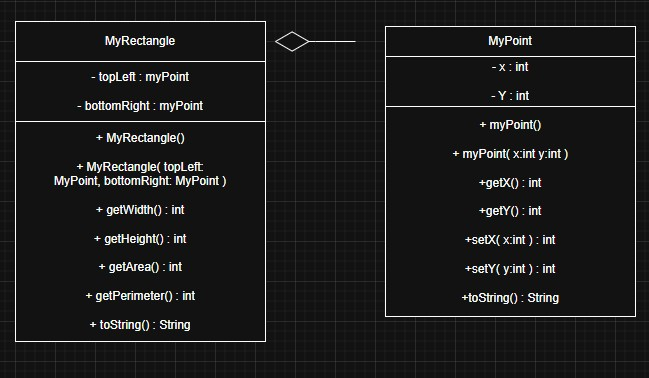
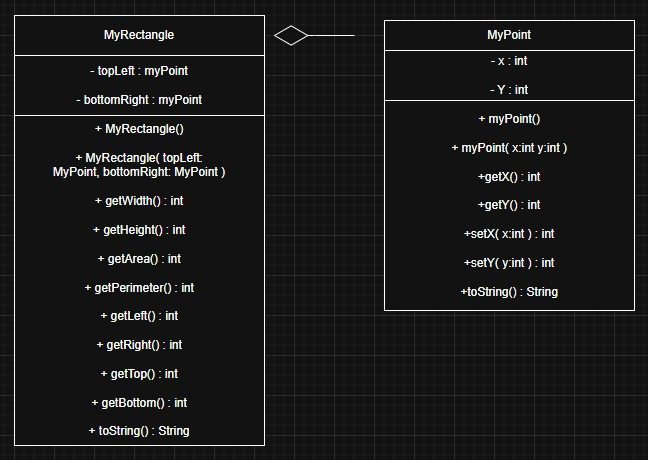
Added Problem 4 Solution

diff --git a/Problem4/campusMap.java b/Problem4/campusMap.java
@@ -1,0 +1,144 @@
+package Problem4;
+
+import Problem2.myLine;
+import Problem3.myRectangle;
+
+@SuppressWarnings("unused")
+public class campusMap {
+
+    private myRectangle scienceHall;
+    private myRectangle library;
+    private myRectangle lectureRoom1;
+    private myRectangle lectureRoom2;
+    private myRectangle lectureRoom3;
+    private myRectangle lectureRoom4;
+    private myRectangle lectureRoom5;
+
+    private myCircle centralFountain;
+
+    private myLine walkway1;
+    private myLine walkway2;
+    private myLine walkway3;
+    private myLine walkway4;
+    private myLine walkway5;
+    private myLine walkway6;
+
+    public campusMap() {
+        
+    }
+
+    // Add
+    public void addScienceHall(myRectangle scienceHall) {
+        this.scienceHall = scienceHall;
+    }
+
+    public void addLibrary(myRectangle library) {
+        this.library = library;
+    }
+
+    public void addLectureRoom1(myRectangle lectureRoom1) {
+        this.lectureRoom1 = lectureRoom1;
+    }
+
+    public void addLectureRoom2(myRectangle lectureRoom2) {
+        this.lectureRoom2 = lectureRoom2;
+    }
+
+    public void addLectureRoom3(myRectangle lectureRoom3) {
+        this.lectureRoom3 = lectureRoom3;
+    }
+
+    public void addLectureRoom4(myRectangle lectureRoom4) {
+        this.lectureRoom4 = lectureRoom4;
+    }
+
+    public void addLectureRoom5(myRectangle lectureRoom5) {
+        this.lectureRoom5 = lectureRoom5;
+    }
+
+    public void addCentralFountain(myCircle centralFountain) {
+        this.centralFountain = centralFountain;
+    }
+
+    public void addWalkway1(myLine walkway1) {
+        this.walkway1 = walkway1;
+    }
+
+    public void addWalkway2(myLine walkway2) {
+        this.walkway2 = walkway2;
+    }
+
+    public void addWalkway3(myLine walkway3) {
+        this.walkway3 = walkway3;
+    }
+
+    public void addWalkway4(myLine walkway4) {
+        this.walkway4 = walkway4;
+    }
+
+    public void addWalkway5(myLine walkway5) {
+        this.walkway5 = walkway5;
+    }
+
+    public void addWalkway6(myLine walkway6) {
+        this.walkway6 = walkway6;
+    }
+
+
+    // Calculate
+
+    public double calculateTotalWalkwayLength() {
+        double totalLength = 0;
+        if (walkway1 != null) totalLength += walkway1.getLength();
+        if (walkway2 != null) totalLength += walkway2.getLength();
+        if (walkway3 != null) totalLength += walkway3.getLength();
+        if (walkway4 != null) totalLength += walkway4.getLength();
+        if (walkway5 != null) totalLength += walkway5.getLength();
+        if (walkway6 != null) totalLength += walkway6.getLength();
+        return totalLength;
+    }
+
+    public double calculateTotalFountainArea() {
+        if (centralFountain != null) {
+            return centralFountain.getArea();
+        }
+        return 0;
+    }
+
+
+    //this took me a long time i couldnt figure it out for a long while but i think i got it now. it checks if any of the walkways connect the two rectangles by checking if the endpoints of the walkway are in the rectangles.
+    public boolean isWalkwayFromTo (myRectangle from, myRectangle to) {
+        return connects(walkway1, from, to)
+            || connects(walkway2, from, to)
+            || connects(walkway3, from, to)
+            || connects(walkway4, from, to)
+            || connects(walkway5, from, to)
+            || connects(walkway6, from, to);
+    }
+
+    private boolean connects(myLine line, myRectangle from, myRectangle to) {
+        if (line == null || from == null || to == null) {
+            return false;
+        }
+
+        int beginX = line.getBegin().getX();
+        int beginY = line.getBegin().getY();
+        int endX = line.getEnd().getX();
+        int endY = line.getEnd().getY();
+
+        boolean beginInFrom = isPointInRectangle(beginX, beginY, from);
+        boolean endInTo = isPointInRectangle(endX, endY, to);
+        if (beginInFrom && endInTo) {
+            return true;
+        }
+
+        boolean beginInTo = isPointInRectangle(beginX, beginY, to);
+        boolean endInFrom = isPointInRectangle(endX, endY, from);
+        return beginInTo && endInFrom;
+    }
+
+    private boolean isPointInRectangle(int x, int y, myRectangle rect) {
+        return x >= rect.getLeft() && x <= rect.getRight()
+            && y >= rect.getBottom() && y <= rect.getTop();
+    }
+}

diff --git a/Problem4/myCircle.java b/Problem4/myCircle.java
@@ -1,0 +1,81 @@
+package Problem4;
+
+public class myCircle {
+    private myPoint center;
+    private int radius = 1;
+
+    public myCircle() {
+        this.radius = 1;
+        this.center = new myPoint();
+    }
+
+    public myCircle(int x, int y, int radius) {
+        this.radius = radius;
+        this.center = new myPoint(x,y);
+    }
+
+    public myCircle(myPoint center, int radius) {
+        this.center = center;
+        this.radius = radius;
+    }
+
+    public void setRadius(int r) {
+        this.radius = r;
+    }
+
+    public int getRadius() {
+        return radius;
+    }
+
+    public void setCenter(myPoint center) {
+        this.center = center;
+    }
+
+    public myPoint getCenter() {
+        return center;
+    }
+
+    public int getCenterX() {
+        return this.center.getX();
+    }
+
+    public void setCenterX(int x) {
+        this.center.setX(x);
+    }
+
+    public int getCenterY() {
+        return this.center.getY();
+    }
+
+    public void setCenterY(int y) {
+        this.center.setY(y);
+
+    }
+
+    public int[] getCenterXY() {
+        int a[] = new int[2];
+        a[0] = this.center.getX();
+        a[1] = this.center.getY();
+        return a;
+    }
+
+    public void setCenterXY(int x, int y) {
+        this.center.setXY(x, y);
+    }
+
+    public String toString() {
+        return ("Center = " + this.center + " and radius = " + this.radius);
+    }
+
+    public double getCircumference() {
+        return (2 * Math.PI * this.radius);
+    }
+    public double distance(myCircle c) {
+        return(this.center.distance(c.center));
+    }
+
+    public double getArea() {
+        return (Math.PI * this.radius * this.radius);
+    }
+  
+}

diff --git a/Problem4/testCampusMap.java b/Problem4/testCampusMap.java
@@ -1,0 +1,32 @@
+package Problem4;
+
+import Problem2.myLine;
+import Problem2.myPoint;
+import Problem3.myRectangle;
+
+public class testCampusMap {
+	public static void main(String[] args) {
+		campusMap map = new campusMap();
+
+		myRectangle scienceHall = new myRectangle(new Problem3.myPoint(0, 10), new Problem3.myPoint(4, 6));
+		myRectangle library = new myRectangle(new Problem3.myPoint(6, 10), new Problem3.myPoint(10, 6));
+		myRectangle lectureRoom1 = new myRectangle(new Problem3.myPoint(20, 20), new Problem3.myPoint(24, 16));
+
+		map.addScienceHall(scienceHall);
+		map.addLibrary(library);
+		map.addLectureRoom1(lectureRoom1);
+		map.addCentralFountain(new myCircle(5, 5, 2));
+
+		myLine walkway1 = new myLine(new myPoint(2, 8), new myPoint(8, 8));
+		myLine walkway2 = new myLine(new myPoint(1, 7), new myPoint(3, 7));
+
+		map.addWalkway1(walkway1);
+		map.addWalkway2(walkway2);
+
+		System.out.println("Total walkway length: " + map.calculateTotalWalkwayLength());
+		System.out.println("Central fountain area: " + map.calculateTotalFountainArea());
+		System.out.println("Science to Library: " + map.isWalkwayFromTo(scienceHall, library));
+		System.out.println("Library to Science: " + map.isWalkwayFromTo(library, scienceHall));
+		System.out.println("Science to LectureRoom1: " + map.isWalkwayFromTo(scienceHall, lectureRoom1));
+	}
+}

diff --git a/Problem4/myPoint.java b/Problem4/myPoint.java
@@ -1,0 +1,58 @@
+package Problem4;
+
+public class myPoint {
+    private int x = 0;
+    private int y = 0;
+
+    public myPoint() {
+        this.x = 0;
+        this.y = 0;
+    }
+    
+    public myPoint(int x, int y) {
+        this.x = x;
+        this.y = y;
+    }
+
+    public int getX() {
+        return this.x;
+    }
+    
+    public void setX(int x) {
+        this.x = x;
+    }
+
+    public int getY() {
+        return this.y;
+    }
+    public void setY(int y) {
+        this.y = y;
+    }
+
+    public void setXY(int x, int y) {
+        this.x = x;
+        this.y = y;
+    }
+
+    public String toString() {
+        return ("("+this.x +","+this.y+")");
+    }
+
+    public double distance(int x, int y) {
+        int xDiff = this.x - x;
+        int yDiff = this.y - y;
+        return Math.sqrt(xDiff*xDiff + yDiff*yDiff);
+    }
+
+    public double distance(myPoint p) {
+        int xDiff = this.x - p.x;
+        int yDiff = this.y - p.y;
+        return Math.sqrt(xDiff*xDiff + yDiff*yDiff);
+    }
+    
+    public double distance() {
+        int xDiff = this.x-0;
+        int yDiff = this.y - 0;
+        return Math.sqrt(xDiff*xDiff + yDiff*yDiff);
+    }
+}

diff --git a/Problem3/myRectangle.java b/Problem3/myRectangle.java
@@ -22,16 +22,33 @@ public class myRectangle {
         return this.topleft.getY() - this.bottomright.getY();
     }
 
-    public int getArea() {
-        return this.getWidth() * this.getHeight();
-    }
-
     public int getPerimeter() {
         return 2 * (this.getWidth() + this.getHeight());
     }
 
+    public int getLeft() {
+        return Math.min(this.topleft.getX(), this.bottomright.getX());
+    }
+
+    public int getRight() {
+        return Math.max(this.topleft.getX(), this.bottomright.getX());
+    }
+
+    public int getTop() {
+        return Math.max(this.topleft.getY(), this.bottomright.getY());
+    }
+
+    public int getBottom() {
+        return Math.min(this.topleft.getY(), this.bottomright.getY());
+    }
+
     public String toString() {
         return "topleft = " + this.topleft + " bottomright = " + this.bottomright;
+    }
+    
+    // had to change from getArea to myArea because it caused errors in problem 4 and this was the only way i found to fix it.
+    public int myArea() {
+        return this.getWidth() * this.getHeight();
     }
 
 }

diff --git a/Problem3/testMyRectangle.java b/Problem3/testMyRectangle.java
@@ -6,7 +6,7 @@ public class testMyRectangle {
 		System.out.println("Default rectangle: " + r1);
 		System.out.println("Width: " + r1.getWidth());
 		System.out.println("Height: " + r1.getHeight());
-		System.out.println("Area: " + r1.getArea());
+		System.out.println("Area: " + r1.myArea());
 		System.out.println("Perimeter: " + r1.getPerimeter());
 
 		myPoint tl = new myPoint(2, 8);
@@ -15,7 +15,7 @@ public class testMyRectangle {
 		System.out.println("\nCustom rectangle: " + r2);
 		System.out.println("Width: " + r2.getWidth());
 		System.out.println("Height: " + r2.getHeight());
-		System.out.println("Area: " + r2.getArea());
+		System.out.println("Area: " + r2.myArea());
 		System.out.println("Perimeter: " + r2.getPerimeter());
 	}
 }

diff --git a/Problem2/myLine.java b/Problem2/myLine.java
@@ -92,14 +92,4 @@ public class myLine {
         return "begin=(" + this.begin.x + "," + this.begin.y + "),end=(" + this.end.x + "," + this.end.y + ")";
     }
 
-
-
-
-
-
-
-
-
-
-
 }
